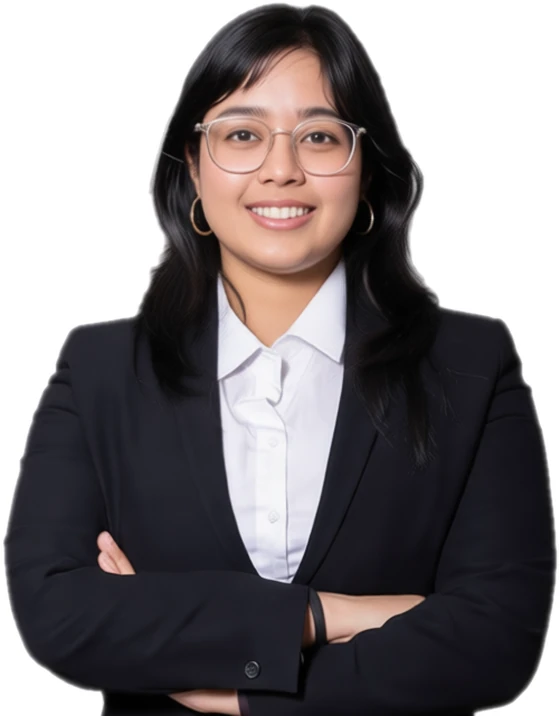
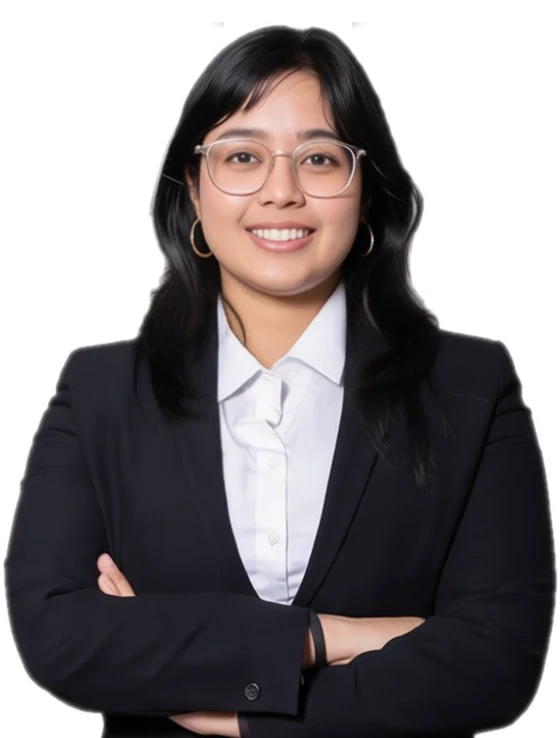
Complete the clipped white outline at the top of the hero portrait
The previous fix addressed a CSS overflow bug, but the outline was still
incomplete because the source image itself (assets/hero.webp) was
cropped mid-gradient: pixel-level inspection showed the white halo's
fade-to-transparent tail was cut off by the canvas edge at the top of
the head (row 0 was already at ~alpha 250, meaning the outward fade that
exists on every other side of the silhouette was simply missing here).

Fixed by extending the canvas 22px upward and reconstructing a smooth,
rounded falloff there (extrude + Gaussian blur on the alpha channel,
composited so the original photo pixels are untouched) rather than a
naive per-column linear fade, which produced a flat-topped/rectangular
artifact. Re-encoded as WEBP q=92 (~35KB, close to the original size).
Image is now 560x738 (was 560x716); updated the width/height attributes
in index.html to match.

diff --git a/index.html b/index.html
@@ -50,7 +50,7 @@
           <li><i class="ph ph-map-pin" aria-hidden="true"></i><span data-fr="5 ans entre l'Inde et la France · MBA Audencia · Télétravail ou hybride">5 years across India and France · MBA Audencia · Remote or hybrid</span></li>
         </ul>
       </div>
-      <div class="hero-portrait reveal" aria-hidden="true"><img src="assets/hero.webp" alt="" width="560" height="716"></div>
+      <div class="hero-portrait reveal" aria-hidden="true"><img src="assets/hero.webp" alt="" width="560" height="738"></div>
       <div class="hero-quote reveal">
         <i class="ph-fill ph-quotes" aria-hidden="true"></i>
         <blockquote data-fr="Le marketing a deux langues maternelles : la stratégie et le dashboard. Je parle les deux.">Marketing has two native languages: strategy and the dashboard. I speak both.</blockquote>
